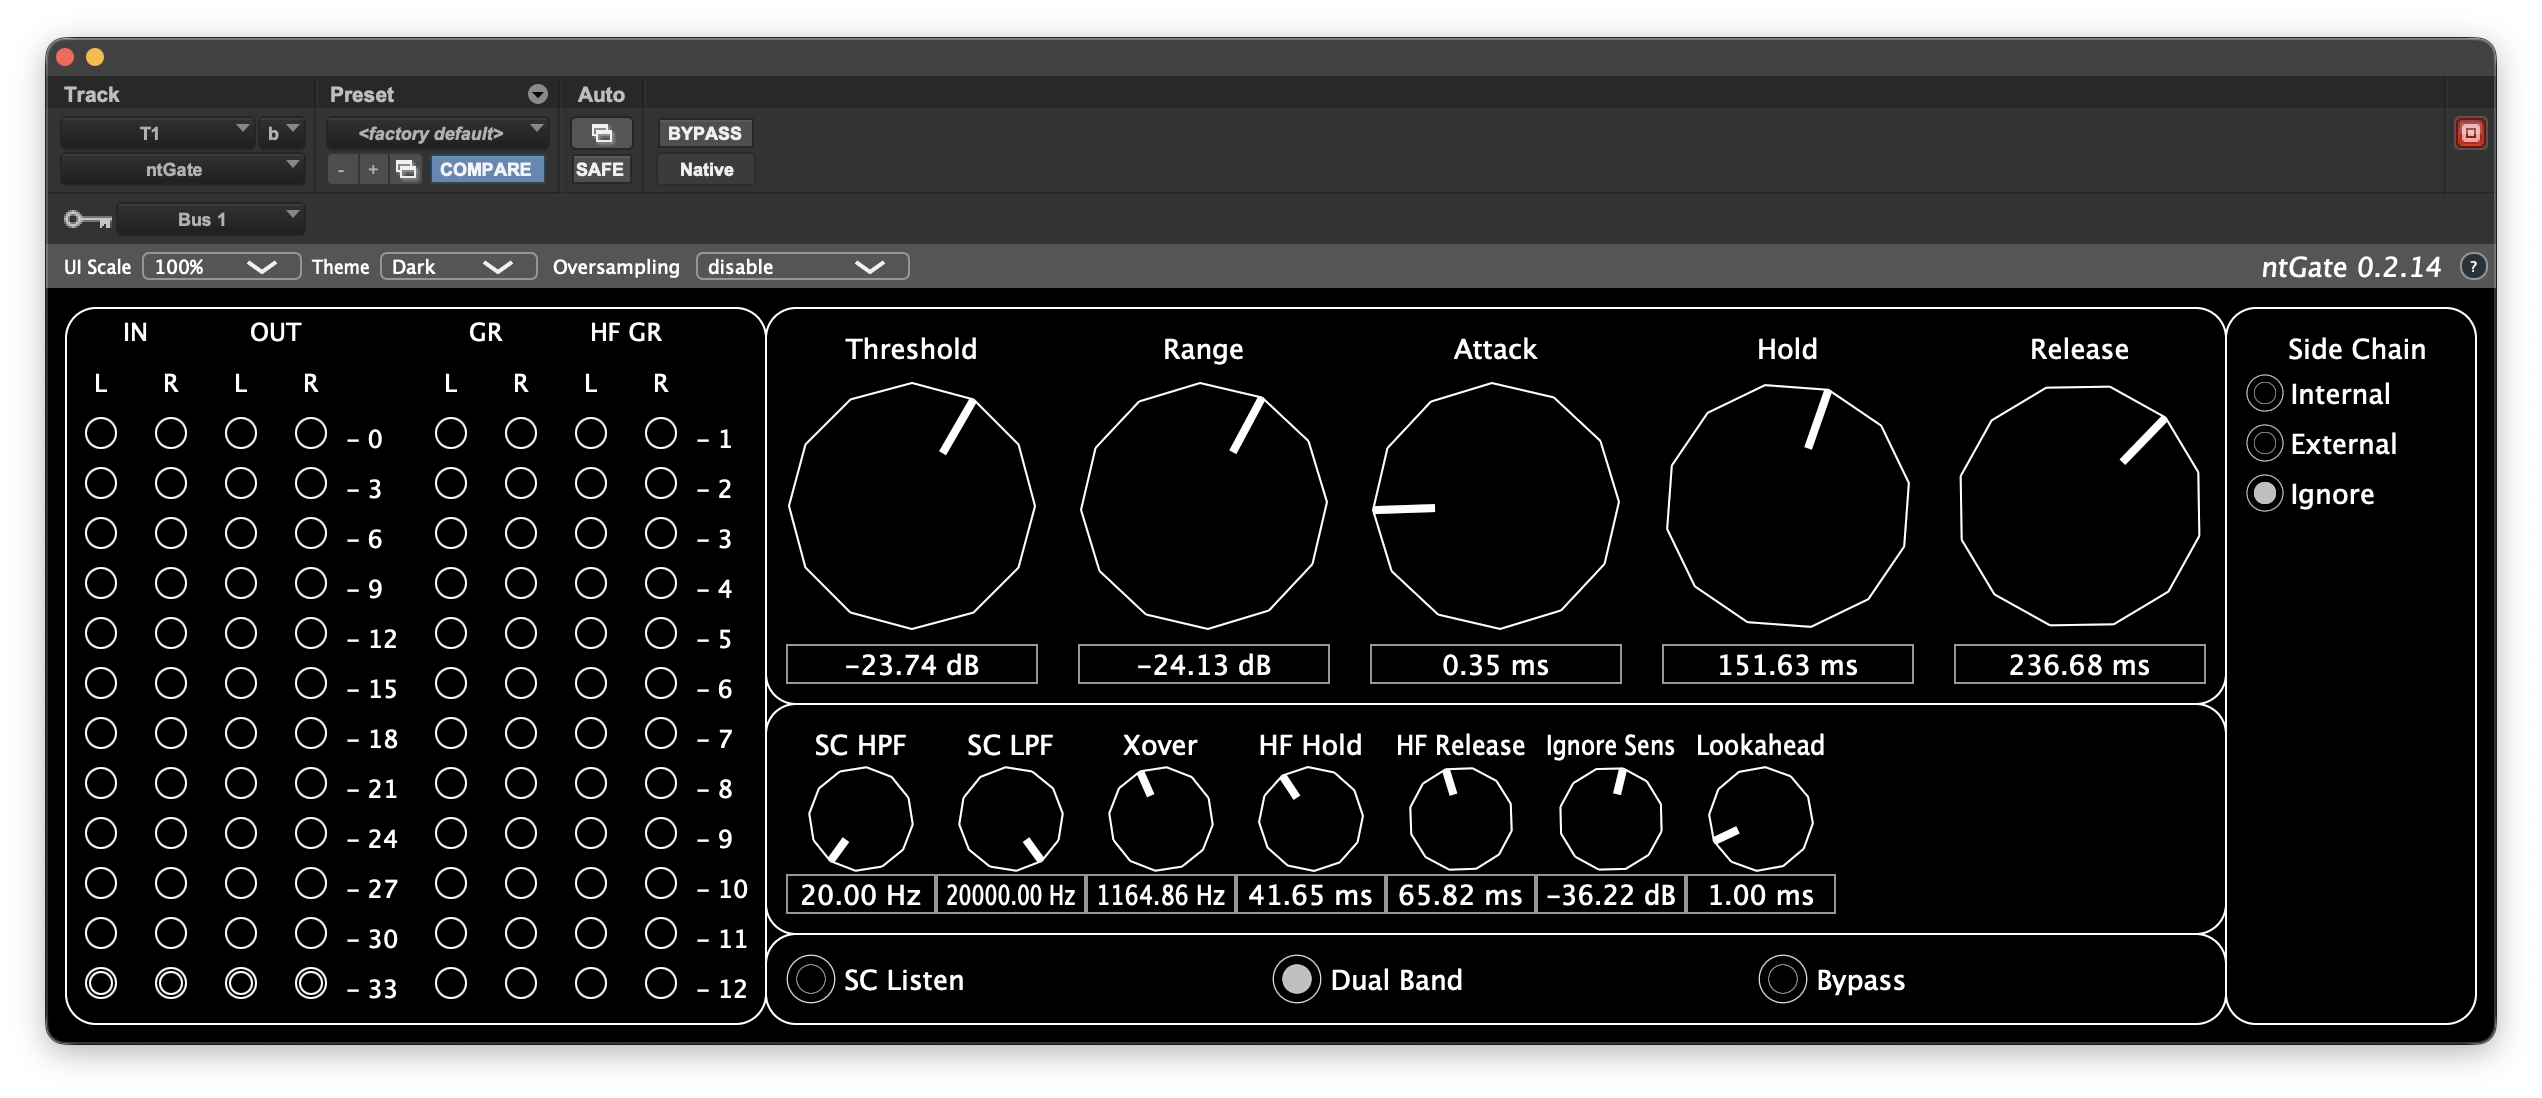
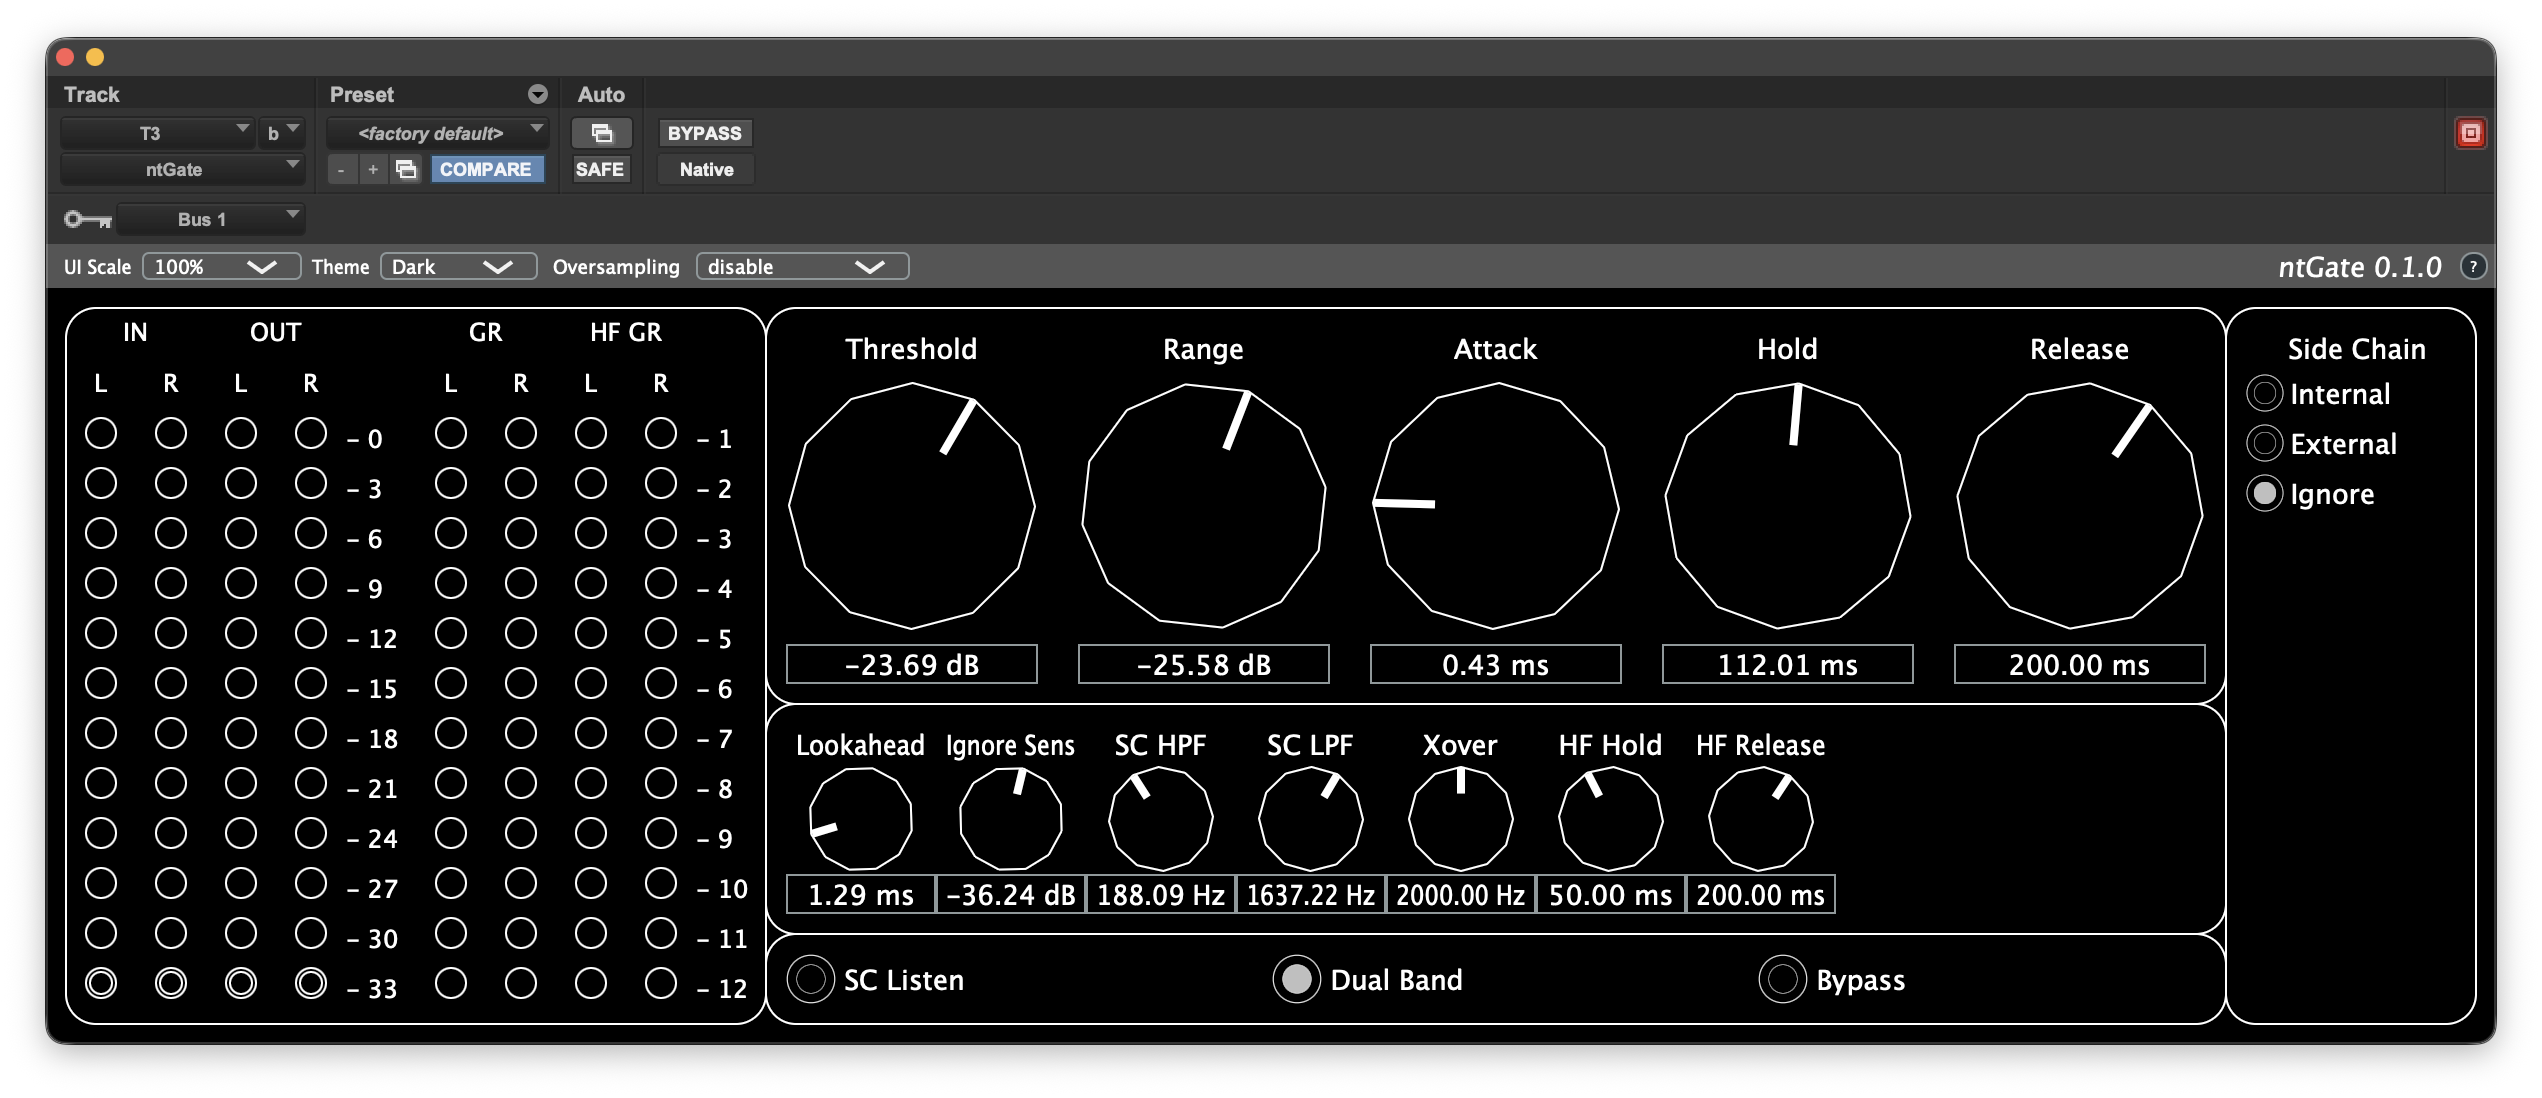
Manual is now shown in integrated browser.

diff --git a/JuceWrapper/PluginEditor.cpp b/JuceWrapper/PluginEditor.cpp
@@ -32,6 +32,7 @@
 #include "juce_events/juce_events.h"
 #include "juce_graphics/juce_graphics.h"
 #include "juce_gui_basics/juce_gui_basics.h"
+#include "juce_gui_extra/juce_gui_extra.h"
 #include "utils.h"
 
 #include <cstddef>
@@ -43,12 +44,18 @@
 #include <vector>
 
 // TODO: Major refactor. There are SO many repitions in this file.
-
-constexpr auto NAME         = std::string_view(JucePlugin_Name);
-constexpr auto SPACE        = std::string_view(" ");
-constexpr auto VERSION      = std::string_view(JucePlugin_VersionString);
-constexpr auto ZERO         = std::string_view("\0");
-static constexpr auto TITLE = join_v<NAME, SPACE, VERSION, ZERO>;
+namespace {
+constexpr auto NAME    = std::string_view(JucePlugin_Name);
+constexpr auto SPACE   = std::string_view(" ");
+constexpr auto VERSION = std::string_view(JucePlugin_VersionString);
+constexpr auto ZERO    = std::string_view("\0");
+#ifdef DEBUG
+constexpr auto DEBUG_STR = std::string_view(" DEBUG");
+#else
+constexpr auto DEBUG_STR = std::string_view("");
+#endif
+static constexpr auto TITLE = join_v<NAME, SPACE, VERSION, DEBUG_STR, ZERO>;
+}
 
 enum TitleBarDropDowns { e_uiScale, e_theme, e_oversampling };
 int NtFx::RadioButtonSet::_s_id { 0 };
@@ -791,30 +798,38 @@ void NtPluginAudioProcessorEditor::_conformUiSilderValues() {
 
 static std::string _getAbsolutePathOfPlugin() {
   Dl_info info;
-  // On macOS, dladdr works well for getting the path of the current binary
   if (dladdr((void*)&_getAbsolutePathOfPlugin, &info)) {
     std::string path = info.dli_fname;
-    // info.dli_fname might be a relative path or just the binary name
-    // On macOS, it usually returns the full path to the binary
     return path;
   }
   return "";
 }
 
+struct ManualWindow : public juce::DocumentWindow {
+  juce::WebBrowserComponent* _browser;
+  ManualWindow(const juce::String& url)
+      : juce::DocumentWindow(
+            "Manual", juce::Colours::black, juce::DocumentWindow::allButtons),
+        _browser(new juce::WebBrowserComponent()) {
+    this->setContentOwned(_browser, true);
+    this->_browser->goToURL(url);
+    this->setResizable(true, true);
+    this->setVisible(true);
+    this->centreWithSize(900, 600);
+  }
+  void closeButtonPressed() override {
+    delete this->_browser;
+    delete this;
+  }
+};
+
 static void _openManualInBrowser() {
-  auto binPath     = _getAbsolutePathOfPlugin();
-  juce::String cmd = "xdg-open ";
-  size_t pos       = binPath.find("/Contents/");
-  auto bundlePath  = binPath.substr(0, pos);
-  auto manPath     = bundlePath + "/Contents/Resources/manual.html";
+  auto binPath    = _getAbsolutePathOfPlugin();
+  size_t pos      = binPath.find("/Contents/");
+  auto bundlePath = binPath.substr(0, pos);
+  auto manPath    = bundlePath + "/Contents/Resources/manual.html";
   DBG(NTFX_PLUGIN_NAME + ": Opening manual at '" + manPath + "'.");
-#ifdef __MACH__
-  cmd = "open ";
-#elif defined(_WIN32)
-  cmd = "start msedge "
-#endif
-  auto st = cmd + manPath;
-  system(st.toRawUTF8());
+  new ManualWindow("file://" + manPath);
 }
 
 void NtPluginAudioProcessorEditor::buttonClicked(juce::Button* p_button) {

diff --git a/lib/PeakSensor.h b/lib/PeakSensor.h
@@ -157,7 +157,7 @@ struct PeakHoldSensorMono : public PeakSensorMono {
     } else {
       auto readIdx = this->_idx - _nHold - 1;
       if (readIdx < 0) { readIdx += delayLineLength; }
-      this->_xMax = this->_dl[readIdx];
+      this->_xMax = this->_dl[size_t(readIdx)];
     }
     return this->_xMax;
   }
@@ -167,7 +167,7 @@ struct PeakHoldSensorMono : public PeakSensorMono {
    *
    */
   void update() noexcept override {
-    this->_nHold = this->tHold_ms * this->_fs / 1000.0;
+    this->_nHold = int(this->tHold_ms * this->_fs / signal_t(1000.0));
     this->_nHold =
         (this->_nHold >= delayLineLength ? delayLineLength - 1 : this->_nHold);
     this->PeakSensorMono::update();

diff --git a/JuceWrapper/PluginEditor.h b/JuceWrapper/PluginEditor.h
@@ -90,6 +90,7 @@ struct NtPluginAudioProcessorEditor : public juce::AudioProcessorEditor,
   std::vector<juce::Rectangle<int>> grayAreas;
   juce::Label pluginNameLabel;
   juce::TextButton helpButton;
+  juce::WebBrowserComponent browser;
 
   int unscaledWindowHeight { 0 };
   int unscaledWindowWidth { 0 };

diff --git a/manuals/ntGate.md b/manuals/ntGate.md
@@ -27,16 +27,18 @@ The side chain has three modes, which can be selected on the right of of UI.
 
 ### Ingore Mode
 
+![Signal flow for ignore mode](img/ntGate_ingore_flow.png)
+
 When the **Ingore** **Side Chain** mode is selected, the external key input is
-feeding a compressor side chain. The compressor controls level of the signal
-from the main input, feeding the gate side chain. Thus, the key input is used to
-duck the level that the gate hears, making the gate less prone to opening when
-signal on the key input is high. The compressor settings are tuned with drums in
-mind. Using a 10 ms peak hold, the gate side chain signal will remain at this
-level while the key signal event hits the main input because 10 ms is
-approximately 3 meters of distance and the microphones can be expected to be
-within that distance. **Ignore Sens** is threshold for the compressor and thus
-it controls the amount of gain reduction.
+feeding a compressor side chain, which controls level of the signal from the
+main input, feeding the gate side chain. Thus, the key input is used to duck the
+level that the gate hears, making the gate less prone to opening when signal on
+the key input is high. The compressor settings are tuned with drums in mind.
+Using a 10 ms peak hold, the gate side chain signal will remain at this level
+while the key signal event hits the main input because 10 ms is approximately 3
+meters of distance and the microphones can be expected to be within that
+distance. **Ignore Sens** is threshold for the compressor and thus it controls
+the amount of gain reduction.
 
 The use case for this is drums. Feeding the snare top mic to the tom mic key
 inputs and enabling **Ignore** will allow lower gate thresholds. Listening to
